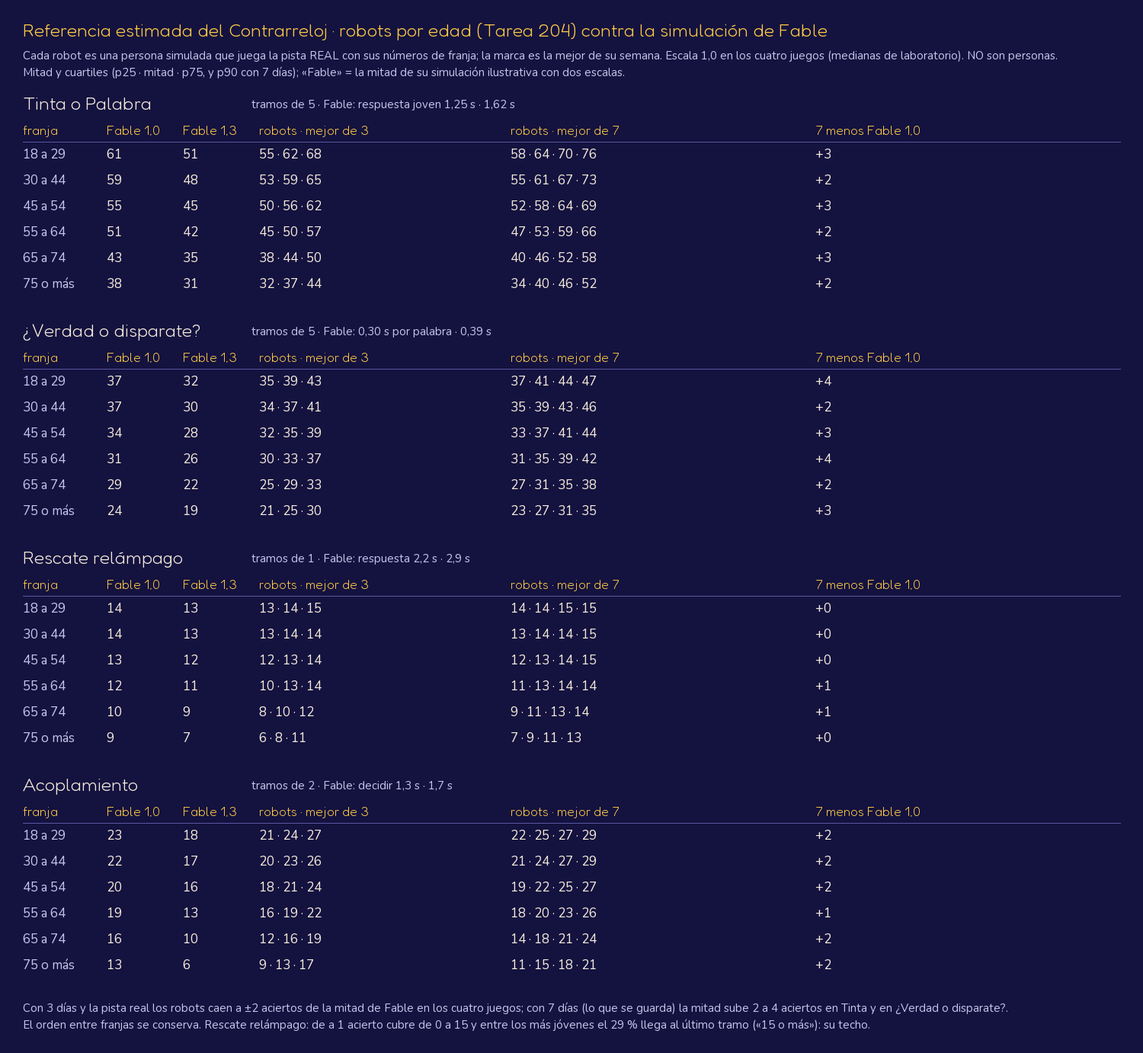
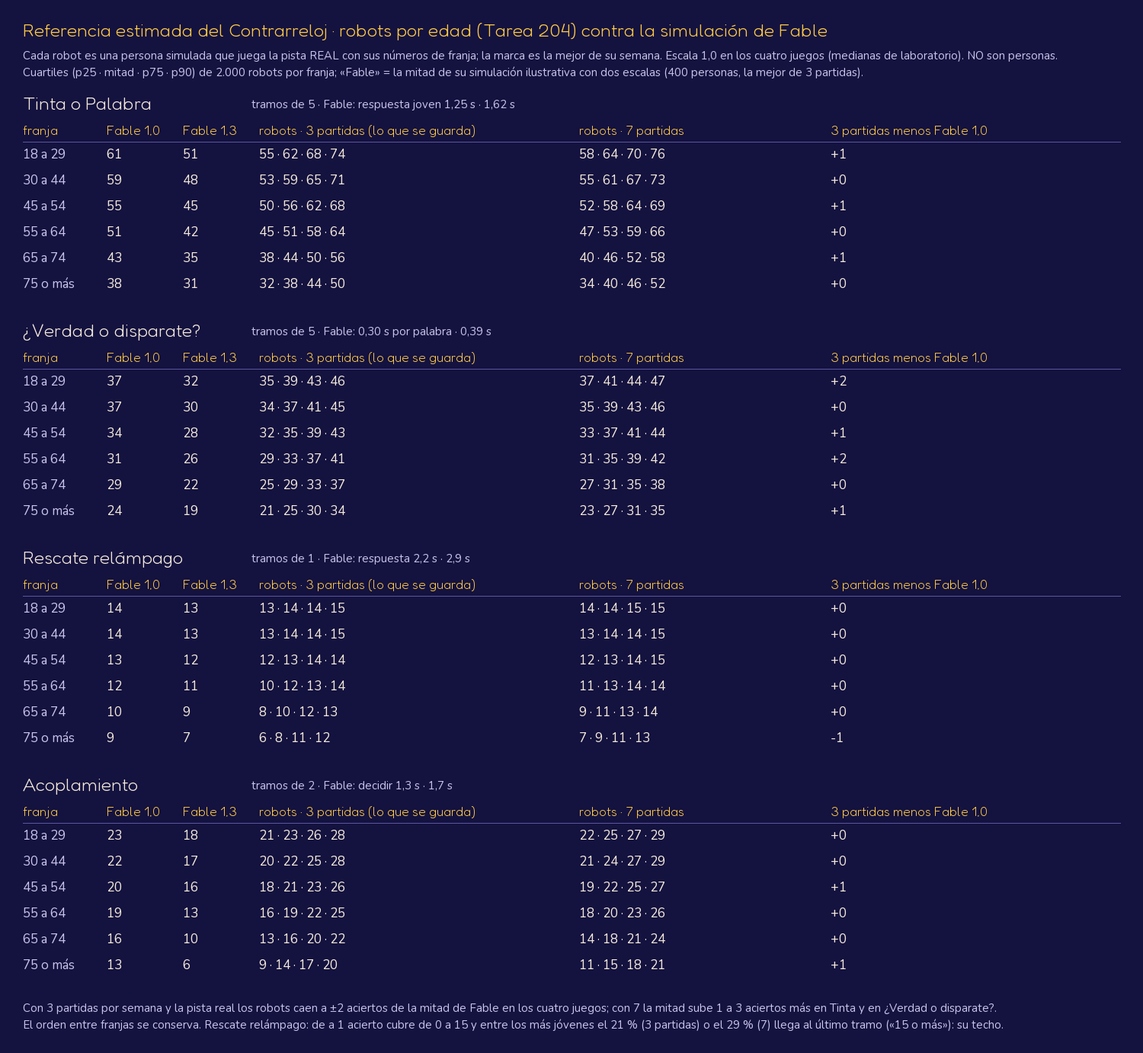
Tarea 204: 3 partidas por semana (dias distintos) y modelo y fuente en el JSON
Opus aprobo el plan con ajustes: la tabla que se guarda usa 3 partidas por semana, como
las personas de Ricardo (3 Contrarrelojes por juego), en 3 dias DISTINTOS de los 7 de la
semana, sorteados por persona con la semilla fija (AgeReference.PickDays); 7 queda como
opcion (NUBI_REF_PARTIDAS=7). El JSON dice partidas_por_semana, dias_de_pista, la version
del modelo y su fuente («auditoria-fable/referencia-estimada.md §2.2»).

Con 3 partidas la mitad queda a +-2 aciertos de la simulacion de Fable en los cuatro
juegos. Pruebas: 15 en AgeReferenceTests (dias distintos y fijos por persona, mas
partidas suben la mejor marca, modelo y fuente en el JSON). Lamina y docs al dia.

diff --git a/unity/NeuroVidaCore/Assets/Scripts/Games/Tests/AgeReference.cs b/unity/NeuroVidaCore/Assets/Scripts/Games/Tests/AgeReference.cs
@@ -213,26 +213,50 @@ namespace NeuroVida.Games.Tests
 
         public const int Bins = 16;
 
-        /// <summary>Con qué se arma la tabla: cuántas personas por franja, cuántos días de pista juega cada una (de ellos sale su mejor marca de la semana), desde qué día (aaaammdd), con qué semilla y con qué escala.</summary>
+        /// <summary>Los días de pista de una semana: cada día tiene su propia pista (otra semilla), así que una persona que juega 3 veces juega 3 pistas distintas.</summary>
+        public const int WeekDays = 7;
+
+        /// <summary>
+        /// Con qué se arma la tabla: cuántas personas por franja, cuántas PARTIDAS juega cada una en la semana (<see cref="Played"/>: de ellas sale su mejor marca; son días DISTINTOS de los <see cref="WeekDays"/>, sorteados por persona con la semilla fija), desde qué día (aaaammdd empieza la semana), con qué semilla y con qué escala.
+        /// Cuántas partidas juega una persona por semana es una perilla que se mezcla con la escala: por defecto 3 (las personas de Ricardo juegan 3 Contrarrelojes por juego); 7 = todos los días.
+        /// </summary>
         public readonly struct Options
         {
-            public readonly int People, Days, FirstDay;
+            public readonly int People, Played, FirstDay;
             public readonly ulong Seed;
             /// <summary>Multiplica la lentitud de todas las personas del juego; 1,0 = las medianas de la §2.3 de Fable. Si es 0 o menos se usa <see cref="ReferenceScales.For"/>.</summary>
             public readonly double Scale;
 
-            public Options(int people, int days, int firstDay, ulong seed, double scale = 0.0)
+            public Options(int people, int played, int firstDay, ulong seed, double scale = 0.0)
             {
                 People = people;
-                Days = days;
+                Played = Math.Max(1, Math.Min(WeekDays, played));
                 FirstDay = firstDay;
                 Seed = seed;
                 Scale = scale;
             }
         }
 
-        /// <summary>Lo de siempre: 2.000 personas por franja, 7 días de pista (la semana del 1 de noviembre de 2026) y la semilla 20261101.</summary>
-        public static Options Default => new Options(2000, 7, 20261101, 20261101UL);
+        /// <summary>Lo de siempre: 2.000 personas por franja, 3 partidas por semana (3 días distintos de la semana del 1 de noviembre de 2026) y la semilla 20261101.</summary>
+        public static Options Default => new Options(2000, 3, 20261101, 20261101UL);
+
+        /// <summary>Los días (índices 0 a <see cref="WeekDays"/> − 1, de menor a mayor) en que juega una persona: <paramref name="played"/> DISTINTOS, sorteados con su semilla (Fisher-Yates parcial con SplitMix64: la misma persona juega siempre los mismos días).</summary>
+        public static int[] PickDays(ulong personSeed, int played)
+        {
+            played = Math.Max(1, Math.Min(WeekDays, played));
+            var idx = new int[WeekDays];
+            for (int i = 0; i < WeekDays; i++) idx[i] = i;
+            var rng = new TimeTrial.TrackRandom(Mix(personSeed ^ 0xA24BAED4963EE407UL));
+            for (int i = 0; i < played; i++)
+            {
+                int j = i + rng.Next(WeekDays - i);
+                int tmp = idx[i]; idx[i] = idx[j]; idx[j] = tmp;
+            }
+            var picked = new int[played];
+            Array.Copy(idx, picked, played);
+            Array.Sort(picked);
+            return picked;
+        }
 
         /// <summary>El resultado para UNA franja de UN juego.</summary>
         public sealed class RangeResult
@@ -248,7 +272,7 @@ namespace NeuroVida.Games.Tests
         public sealed class Table
         {
             public string Game;
-            public int TrackVersion, BinWidth, Days, FirstDay;
+            public int TrackVersion, BinWidth, Played, FirstDay;
             public int PeoplePerRange;
             public ulong Seed;
             public double Scale;
@@ -268,15 +292,15 @@ namespace NeuroVida.Games.Tests
             return keys;
         }
 
-        /// <summary>Arma la tabla de <paramref name="game"/>: por cada franja, <see cref="Options.People"/> personas; cada una juega <see cref="Options.Days"/> días de pista real y se queda con su mejor marca.</summary>
+        /// <summary>Arma la tabla de <paramref name="game"/>: por cada franja, <see cref="Options.People"/> personas; cada una juega <see cref="Options.Played"/> días DISTINTOS de la semana (la pista real de cada día) y se queda con su mejor marca.</summary>
         public static Table Build(string game, SentenceBank bank, Options options)
         {
             double scale = options.Scale > 0 ? options.Scale : ReferenceScales.For(game);
             int width = BinWidth(game);
-            var days = DayKeys(options.FirstDay, options.Days);
+            var week = DayKeys(options.FirstDay, WeekDays);
             var table = new Table
             {
-                Game = game, TrackVersion = TimeTrial.TrackVersion(game), BinWidth = width, Days = options.Days, FirstDay = options.FirstDay,
+                Game = game, TrackVersion = TimeTrial.TrackVersion(game), BinWidth = width, Played = options.Played, FirstDay = options.FirstDay,
                 PeoplePerRange = options.People, Seed = options.Seed, Scale = scale, Ranges = new RangeResult[RangeKeys.Length],
             };
             for (int f = 0; f < RangeKeys.Length; f++)
@@ -287,10 +311,10 @@ namespace NeuroVida.Games.Tests
                     ulong personSeed = Mix(options.Seed ^ Hash(game) ^ ((ulong)(f + 1) << 48) ^ ((ulong)(uint)i * 0xD1B54A32D192ED03UL));
                     var person = Draw(f, scale, new TimeTrial.TrackRandom(personSeed));
                     double top = 0;
-                    for (int d = 0; d < days.Length; d++)
+                    foreach (int d in PickDays(personSeed, options.Played))
                     {
-                        var rng = new TimeTrial.TrackRandom(Mix(personSeed ^ ((ulong)(uint)days[d] * 0x8CB92BA72F3D8DD7UL)));
-                        top = Math.Max(top, Play(game, person, days[d], rng, bank));
+                        var rng = new TimeTrial.TrackRandom(Mix(personSeed ^ ((ulong)(uint)week[d] * 0x8CB92BA72F3D8DD7UL)));
+                        top = Math.Max(top, Play(game, person, week[d], rng, bank));
                     }
                     best[i] = (int)top;
                 }
@@ -316,8 +340,11 @@ namespace NeuroVida.Games.Tests
 
         // ------------------------------------------------------------------ el JSON (lo que lee la app: `app/src/main/assets/referencia/<juego>_v<version>.json`)
 
+        /// <summary>De dónde salen los parámetros del modelo (lo escribe el JSON junto a la versión del modelo).</summary>
+        public const string Source = "auditoria-fable/referencia-estimada.md §2.2";
+
         /// <summary>
-        /// El JSON de una tabla, a mano y con cultura invariante. Lleva el ancho del tramo, la versión de la pista, la cuenta de robots, la escala, las semillas y el modelo; por franja, los 16 tramos, la media y p25/p50/p75/p90. <paramref name="date"/> es solo metadata (cuándo se generó): no entra en
+        /// El JSON de una tabla, a mano y con cultura invariante. Lleva el ancho del tramo, la versión de la pista, la cuenta de robots, las partidas por semana, la escala, las semillas, la versión del modelo y de dónde sale; por franja, los 16 tramos, la media y p25/p50/p75/p90. <paramref name="date"/> es solo metadata (cuándo se generó): no entra en
         /// ninguna comparación. Los robots NO son personas: el archivo se llama «referencia» y dice <c>"estimada": true</c>.
         /// </summary>
         public static string ToJson(Table t, string date)
@@ -327,12 +354,14 @@ namespace NeuroVida.Games.Tests
             sb.Append("{\n");
             sb.Append("  \"estimada\": true,\n");
             sb.Append("  \"modelo\": ").Append(ModelVersion.ToString(inv)).Append(",\n");
+            sb.Append("  \"fuente_modelo\": \"").Append(Source).Append("\",\n");
             sb.Append("  \"juego\": \"").Append(t.Game).Append("\",\n");
             sb.Append("  \"version_pista\": ").Append(t.TrackVersion.ToString(inv)).Append(",\n");
             sb.Append("  \"ancho_tramo\": ").Append(t.BinWidth.ToString(inv)).Append(",\n");
             sb.Append("  \"tramos\": ").Append(Bins.ToString(inv)).Append(",\n");
             sb.Append("  \"robots_por_franja\": ").Append(t.PeoplePerRange.ToString(inv)).Append(",\n");
-            sb.Append("  \"dias_por_semana\": ").Append(t.Days.ToString(inv)).Append(",\n");
+            sb.Append("  \"partidas_por_semana\": ").Append(t.Played.ToString(inv)).Append(",\n");
+            sb.Append("  \"dias_de_pista\": ").Append(WeekDays.ToString(inv)).Append(",\n");
             sb.Append("  \"primer_dia\": ").Append(t.FirstDay.ToString(inv)).Append(",\n");
             sb.Append("  \"semilla\": ").Append(t.Seed.ToString(inv)).Append(",\n");
             sb.Append("  \"escala\": ").Append(t.Scale.ToString("0.####", inv)).Append(",\n");
@@ -359,7 +388,7 @@ namespace NeuroVida.Games.Tests
         {
             var inv = CultureInfo.InvariantCulture;
             var sb = new StringBuilder();
-            sb.Append(t.Game).Append(" v").Append(t.TrackVersion.ToString(inv)).Append(" · tramos de ").Append(t.BinWidth.ToString(inv)).Append(" · escala ").Append(t.Scale.ToString("0.###", inv)).Append(" · ").Append(t.PeoplePerRange.ToString(inv)).Append(" robots por franja × ").Append(t.Days.ToString(inv)).Append(" días\n");
+            sb.Append(t.Game).Append(" v").Append(t.TrackVersion.ToString(inv)).Append(" · tramos de ").Append(t.BinWidth.ToString(inv)).Append(" · escala ").Append(t.Scale.ToString("0.###", inv)).Append(" · ").Append(t.PeoplePerRange.ToString(inv)).Append(" robots por franja × ").Append(t.Played.ToString(inv)).Append(" partidas por semana\n");
             foreach (var r in t.Ranges)
                 sb.Append("  ").Append(r.Label.PadRight(9)).Append(" p25 ").Append(r.P25.ToString(inv).PadLeft(3)).Append(" · mitad ").Append(r.P50.ToString(inv).PadLeft(3)).Append(" · p75 ").Append(r.P75.ToString(inv).PadLeft(3)).Append(" · p90 ").Append(r.P90.ToString(inv).PadLeft(3)).Append(" · media ").Append(r.Mean.ToString("0.0", inv)).Append("\n");
             return sb.ToString();

diff --git a/unity/NeuroVidaCore/Assets/Scripts/Games/Tests/AgeReferenceTests.cs b/unity/NeuroVidaCore/Assets/Scripts/Games/Tests/AgeReferenceTests.cs
@@ -21,7 +21,7 @@ namespace NeuroVida.Games.Tests
         private static SentenceBank _bank;
         private static SentenceBank Bank => _bank ?? (_bank = SentenceBank.Load());
 
-        private static readonly AgeReference.Options Small = new AgeReference.Options(250, 7, 20261101, 20261101UL);
+        private static readonly AgeReference.Options Small = new AgeReference.Options(250, 3, 20261101, 20261101UL);
 
         private static readonly Dictionary<string, AgeReference.Table> Tables = new Dictionary<string, AgeReference.Table>();
 
@@ -55,13 +55,13 @@ namespace NeuroVida.Games.Tests
         [Test]
         public void TheSameSeedGivesTheSameTable()
         {
-            var o = new AgeReference.Options(40, 7, 20261101, 7UL);
+            var o = new AgeReference.Options(40, 3, 20261101, 7UL);
             foreach (var g in TimeTrial.GameIds)
             {
                 string a = AgeReference.ToJson(AgeReference.Build(g, Bank, o), "2026-11-01");
                 string b = AgeReference.ToJson(AgeReference.Build(g, Bank, o), "2026-11-01");
                 Assert.AreEqual(a, b, g + ": la misma semilla debe dar la misma tabla");
-                string c = AgeReference.ToJson(AgeReference.Build(g, Bank, new AgeReference.Options(40, 7, 20261101, 8UL)), "2026-11-01");
+                string c = AgeReference.ToJson(AgeReference.Build(g, Bank, new AgeReference.Options(40, 3, 20261101, 8UL)), "2026-11-01");
                 Assert.AreNotEqual(a, c, g + ": otra semilla debe dar otra tabla (si no, la semilla no hace nada)");
             }
         }
@@ -69,9 +69,9 @@ namespace NeuroVida.Games.Tests
         [Test]
         public void TheScaleMovesTheTableAndIsWrittenInTheJson()
         {
-            var o = new AgeReference.Options(120, 7, 20261101, 3UL);
+            var o = new AgeReference.Options(120, 3, 20261101, 3UL);
             var normal = AgeReference.Build("stroop", Bank, o);
-            var slow = AgeReference.Build("stroop", Bank, new AgeReference.Options(120, 7, 20261101, 3UL, 1.3));
+            var slow = AgeReference.Build("stroop", Bank, new AgeReference.Options(120, 3, 20261101, 3UL, 1.3));
             Assert.Less(slow.Ranges[2].Mean, normal.Ranges[2].Mean - 3, "con la respuesta 30 % más lenta la media de 45 a 54 cae varios aciertos (Fable: de 55 a 45 la mitad)");
             Assert.AreEqual(1.0, normal.Scale, "la escala por defecto es la de ReferenceScales");
             StringAssert.Contains("\"escala\": 1.3", AgeReference.ToJson(slow, "2026-11-01"));
@@ -93,6 +93,10 @@ namespace NeuroVida.Games.Tests
                 StringAssert.Contains("\"ancho_tramo\": " + AgeReference.BinWidth(g), json);
                 StringAssert.Contains("\"semilla\": 20261101", json);
                 StringAssert.Contains("\"robots_por_franja\": " + Small.People, json);
+                StringAssert.Contains("\"partidas_por_semana\": 3", json);
+                StringAssert.Contains("\"dias_de_pista\": 7", json);
+                StringAssert.Contains("\"modelo\": " + AgeReference.ModelVersion, json);
+                StringAssert.Contains("\"fuente_modelo\": \"auditoria-fable/referencia-estimada.md §2.2\"", json);
                 Assert.AreEqual(g + "_v" + TimeTrial.TrackVersion(g) + ".json", AgeReference.FileName(t));
                 Assert.AreEqual(6, t.Ranges.Length, "seis franjas, de 18 a 29 a 75 o más (sin 13 a 17)");
                 foreach (var r in t.Ranges)
@@ -169,6 +173,36 @@ namespace NeuroVida.Games.Tests
         }
 
         [Test]
+        public void ThreePlayedDaysAreDistinctSortedAndFixedPerPerson()
+        {
+            var seen = new HashSet<string>();
+            for (ulong s = 1; s <= 200; s++)
+            {
+                var days = AgeReference.PickDays(s, 3);
+                Assert.AreEqual(3, days.Length);
+                for (int i = 0; i < days.Length; i++)
+                {
+                    Assert.That(days[i], Is.InRange(0, AgeReference.WeekDays - 1));
+                    if (i > 0) Assert.Greater(days[i], days[i - 1], "tres días DISTINTOS y de menor a mayor");
+                }
+                CollectionAssert.AreEqual(days, AgeReference.PickDays(s, 3), "la misma persona juega siempre los mismos días");
+                seen.Add(string.Join(",", days));
+            }
+            Assert.Greater(seen.Count, 20, "personas distintas juegan días distintos (hay 35 combinaciones posibles)");
+            CollectionAssert.AreEqual(new[] { 0, 1, 2, 3, 4, 5, 6 }, AgeReference.PickDays(5UL, 7), "con 7 partidas se juegan todos los días");
+            Assert.AreEqual(1, AgeReference.PickDays(5UL, 0).Length, "como mínimo una partida");
+        }
+
+        [Test]
+        public void MorePlayedGamesRaiseTheBestMark()
+        {
+            var three = AgeReference.Build("stroop", Bank, new AgeReference.Options(150, 3, 20261101, 11UL));
+            var seven = AgeReference.Build("stroop", Bank, new AgeReference.Options(150, 7, 20261101, 11UL));
+            for (int f = 0; f < three.Ranges.Length; f++)
+                Assert.Greater(seven.Ranges[f].Mean, three.Ranges[f].Mean, "la mejor de 7 partidas supera a la mejor de 3 (" + three.Ranges[f].Label + ")");
+        }
+
+        [Test]
         public void TheDayKeysCrossTheMonth()
         {
             CollectionAssert.AreEqual(new[] { 20261101, 20261102, 20261103 }, AgeReference.DayKeys(20261101, 3));
@@ -194,7 +228,7 @@ namespace NeuroVida.Games.Tests
 
     /// <summary>
     /// GENERA las tablas de la referencia estimada (Tarea 204): <c>bash tools/verificar-todo.sh --referencia</c> abre Unity en batch y llama a <see cref="Run"/>, que arma los cuatro JSON en <c>app/src/main/assets/referencia/</c> y un informe en <c>unity/test-results/referencia-estimada.txt</c>.
-    /// Se vuelve a correr cuando cambia una pista (versión), la escala (<see cref="ReferenceScales"/>) o el modelo (<see cref="AgeReference.ModelVersion"/>). Variables: <c>NUBI_REF_PEOPLE</c> (robots por franja, 2000), <c>NUBI_REF_DAYS</c> (días de pista por persona, 7),
+    /// Se vuelve a correr cuando cambia una pista (versión), la escala (<see cref="ReferenceScales"/>) o el modelo (<see cref="AgeReference.ModelVersion"/>). Variables: <c>NUBI_REF_PEOPLE</c> (robots por franja, 2000), <c>NUBI_REF_PARTIDAS</c> (partidas por persona en la semana, 3: días DISTINTOS de los 7),
     /// <c>NUBI_REF_SEED</c> (semilla, 20261101), <c>NUBI_REF_OUT</c> (carpeta de salida) y <c>NUBI_REF_SCALE</c> (una escala para los cuatro juegos, para probar; sin ella manda <see cref="ReferenceScales"/>).
     /// </summary>
     public static class ReferenceTableRunner
@@ -205,7 +239,7 @@ namespace NeuroVida.Games.Tests
             {
                 var inv = CultureInfo.InvariantCulture;
                 int people = EnvInt("NUBI_REF_PEOPLE", 2000);
-                int days = EnvInt("NUBI_REF_DAYS", 7);
+                int played = EnvInt("NUBI_REF_PARTIDAS", 3);
                 ulong seed = (ulong)EnvInt("NUBI_REF_SEED", 20261101);
                 double scale = double.TryParse(Environment.GetEnvironmentVariable("NUBI_REF_SCALE"), NumberStyles.Float, inv, out var s) ? s : 0.0;
                 string repo = Path.GetFullPath(Path.Combine(Application.dataPath, "..", "..", ".."));
@@ -213,11 +247,11 @@ namespace NeuroVida.Games.Tests
                 if (string.IsNullOrEmpty(outDir)) outDir = Path.Combine(repo, "app", "src", "main", "assets", "referencia");
                 Directory.CreateDirectory(outDir);
                 var bank = SentenceBank.Load();
-                var options = new AgeReference.Options(people, days, 20261101, seed, scale);
+                var options = new AgeReference.Options(people, played, 20261101, seed, scale);
                 string date = DateTime.Now.ToString("yyyy-MM-dd", inv);
                 var report = new StringBuilder();
                 report.AppendLine("Referencia estimada del Contrarreloj (Tarea 204): robots por edad sobre la pista real. Modelo " + AgeReference.ModelVersion + ", generada el " + date + ".");
-                report.AppendLine(people + " robots por franja × " + days + " días de pista (de cada uno, su mejor marca de la semana), semilla " + seed + ". NO son personas.");
+                report.AppendLine(people + " robots por franja × " + options.Played + " partidas por semana en días distintos de los " + AgeReference.WeekDays + " de la semana (de cada uno, su mejor marca), semilla " + seed + ". NO son personas.");
                 report.AppendLine();
                 var clock = System.Diagnostics.Stopwatch.StartNew();
                 foreach (var g in TimeTrial.GameIds)

diff --git a/tools/previews/tarea_204.py b/tools/previews/tarea_204.py
@@ -1,7 +1,8 @@
 # -*- coding: utf-8 -*-
 """Tabla de la Tarea 204 (1-nov-2026): la referencia estimada del Contrarreloj, producida por los robots por edad de Unity (`AgeReference`), contra la simulación ilustrativa de Fable (`auditoria-fable/referencia-estimada.md` §2.4, hecha en Python con una pista generada por paso).
-Por juego y franja: la MITAD que dio Fable con sus dos escalas (la del laboratorio, 1,0, y la de un teléfono 30 % más lento, 1,3), y la de los robots reales con la escala 1,0 jugando 3 días de pista (comparable con Fable, que tomó la mejor de 3 partidas) y 7 días (lo que se guarda en la app: cada robot, su mejor marca de una semana).
-Datos: `app/src/main/assets/referencia/*.json` (7 días, el que lee la app) y `unity/test-results/referencia-3dias/*.json` (3 días; se genera con  NUBI_REF_DAYS=3 NUBI_REF_OUT=unity/test-results/referencia-3dias bash tools/verificar-todo.sh --referencia  y no va a git).
+Por juego y franja: la MITAD que dio Fable con sus dos escalas (la del laboratorio, 1,0, y la de un teléfono 30 % más lento, 1,3; la mejor de 3 partidas), y la de los robots reales con la escala 1,0: con 3 partidas por semana en días distintos (lo que se guarda en la app: las personas de Ricardo
+juegan 3 Contrarrelojes por juego) y con 7 (todos los días de la semana). Cada robot juega la pista REAL del día; de cada uno se toma su mejor marca de la semana.
+Datos: `app/src/main/assets/referencia/*.json` (3 partidas, el que lee la app) y `unity/test-results/referencia-7dias/*.json` (7 partidas; se genera con  NUBI_REF_PARTIDAS=7 NUBI_REF_OUT=unity/test-results/referencia-7dias bash tools/verificar-todo.sh --referencia  y no va a git).
 Uso:  python -I tools/previews/tarea_204.py      → docs/previews/tarea-204.png
 """
 import json, os, sys
@@ -9,11 +10,11 @@ from PIL import Image, ImageDraw, ImageFont
 
 sys.stdout.reconfigure(encoding='utf-8')
 HERE = os.path.dirname(os.path.abspath(__file__)); ROOT = os.path.abspath(os.path.join(HERE, '..', '..'))
-SEVEN = os.path.join(ROOT, 'app', 'src', 'main', 'assets', 'referencia')
-THREE = os.path.join(ROOT, 'unity', 'test-results', 'referencia-3dias')
+THREE = os.path.join(ROOT, 'app', 'src', 'main', 'assets', 'referencia')
+SEVEN = os.path.join(ROOT, 'unity', 'test-results', 'referencia-7dias')
 OUT = os.path.join(ROOT, 'docs', 'previews', 'tarea-204.png')
 FONTS = os.path.join(ROOT, 'app', 'src', 'main', 'res', 'font')
-NAVY, SUN, DIM, CREAM, LINE, LIME, CORAL = (20, 18, 63), (255, 203, 69), (200, 196, 235), (245, 235, 219), (90, 86, 160), (155, 229, 100), (255, 120, 100)
+NAVY, SUN, DIM, CREAM, LINE = (20, 18, 63), (255, 203, 69), (200, 196, 235), (245, 235, 219), (90, 86, 160)
 
 KEYS = ['R18_29', 'R30_44', 'R45_54', 'R55_64', 'R65_74', 'R75_PLUS']
 LABELS = ['18 a 29', '30 a 44', '45 a 54', '55 a 64', '65 a 74', '75 o más']
@@ -37,22 +38,19 @@ def load(folder, game):
 def main():
     W = 1500
     ft, fh, fb, fs = font(24), font(17), font(17, False), font(15, False)
-    cols = [('franja', 110), ('Fable 1,0', 100), ('Fable 1,3', 100), ('robots · mejor de 3', 330), ('robots · mejor de 7', 400), ('7 menos Fable 1,0', 160)]
-    rows_h, block_gap = 34, 36
-    blocks = []
-    for game in FABLE:
-        t7, t3 = load(SEVEN, game), load(THREE, game)
-        blocks.append((game, t7, t3))
-    H = 120 + sum(70 + 34 + 6 * rows_h + 60 for _ in blocks) + 80
+    cols = [('franja', 110), ('Fable 1,0', 100), ('Fable 1,3', 100), ('robots · 3 partidas (lo que se guarda)', 420), ('robots · 7 partidas', 330), ('3 partidas menos Fable 1,0', 240)]
+    rows_h = 34
+    blocks = [(game, load(THREE, game), load(SEVEN, game)) for game in FABLE]
+    H = 120 + len(blocks) * (70 + 34 + 6 * rows_h + 60) + 100
     im = Image.new('RGB', (W, H), NAVY)
     d = ImageDraw.Draw(im)
     d.text((30, 24), 'Referencia estimada del Contrarreloj · robots por edad (Tarea 204) contra la simulación de Fable', font=ft, fill=SUN)
     d.text((30, 62), 'Cada robot es una persona simulada que juega la pista REAL con sus números de franja; la marca es la mejor de su semana. Escala 1,0 en los cuatro juegos (medianas de laboratorio). NO son personas.', font=fs, fill=DIM)
-    d.text((30, 84), 'Mitad y cuartiles (p25 · mitad · p75, y p90 con 7 días); «Fable» = la mitad de su simulación ilustrativa con dos escalas.', font=fs, fill=DIM)
+    d.text((30, 84), 'Cuartiles (p25 · mitad · p75 · p90) de 2.000 robots por franja; «Fable» = la mitad de su simulación ilustrativa con dos escalas (400 personas, la mejor de 3 partidas).', font=fs, fill=DIM)
     y = 120
-    for game, t7, t3 in blocks:
+    for game, t3, t7 in blocks:
         name, scales, f10, f13 = FABLE[game]
-        width = (t7 or {}).get('ancho_tramo', '?')
+        width = (t3 or {}).get('ancho_tramo', '?')
         d.text((30, y), name, font=ft, fill=CREAM)
         d.text((330, y + 6), f'tramos de {width} · Fable: {scales}', font=fs, fill=DIM)
         y += 40
@@ -63,20 +61,20 @@ def main():
         d.line((30, y - 4, W - 30, y - 4), fill=LINE)
         for i, key in enumerate(KEYS):
             x = 30
-            r7 = t7['franjas'][key] if t7 else None
             r3 = t3['franjas'][key] if t3 else None
+            r7 = t7['franjas'][key] if t7 else None
             cells = [
                 LABELS[i], str(f10[i]), str(f13[i]),
-                f"{r3['p25']} · {r3['p50']} · {r3['p75']}" if r3 else '—',
+                f"{r3['p25']} · {r3['p50']} · {r3['p75']} · {r3['p90']}" if r3 else '—',
                 f"{r7['p25']} · {r7['p50']} · {r7['p75']} · {r7['p90']}" if r7 else '—',
-                (f"{r7['p50'] - f10[i]:+d}" if r7 else '—'),
+                (f"{r3['p50'] - f10[i]:+d}" if r3 else '—'),
             ]
             for (title, w), cell in zip(cols, cells):
                 d.text((x, y), cell, font=fb, fill=CREAM if title != 'franja' else DIM); x += w
             y += rows_h
         y += 24
-    d.text((30, y), 'Con 3 días y la pista real los robots caen a ±2 aciertos de la mitad de Fable en los cuatro juegos; con 7 días (lo que se guarda) la mitad sube 2 a 4 aciertos en Tinta y en ¿Verdad o disparate?.', font=fs, fill=DIM)
-    d.text((30, y + 22), 'El orden entre franjas se conserva. Rescate relámpago: de a 1 acierto cubre de 0 a 15 y entre los más jóvenes el 29 % llega al último tramo («15 o más»): su techo.', font=fs, fill=DIM)
+    d.text((30, y), 'Con 3 partidas por semana y la pista real los robots caen a ±2 aciertos de la mitad de Fable en los cuatro juegos; con 7 la mitad sube 1 a 3 aciertos más en Tinta y en ¿Verdad o disparate?.', font=fs, fill=DIM)
+    d.text((30, y + 22), 'El orden entre franjas se conserva. Rescate relámpago: de a 1 acierto cubre de 0 a 15 y entre los más jóvenes el 21 % (3 partidas) o el 29 % (7) llega al último tramo («15 o más»): su techo.', font=fs, fill=DIM)
     im.crop((0, 0, W, y + 70)).save(OUT)
     print(OUT)
 

diff --git a/docs/contrarreloj.md b/docs/contrarreloj.md
@@ -299,16 +299,23 @@ Todo el azar sale de SplitMix64 (`TimeTrial.TrackRandom`), no de `System.Random`
 **La escala** (`ReferenceScales`, UN número por juego, hoy **1,0** en los cuatro) multiplica la lentitud de todas las personas del juego: 1,0 = las medianas de laboratorio de arriba; 1,3 = un teléfono 30 % más lento. Los estudios fijan la DISTANCIA entre franjas; cuánto tarda en tocar una persona joven en ESTE teléfono no lo fija nadie y mueve la mitad de Tinta unos 10 aciertos (Fable §2.4). Es lo único que se calibra
 (antes de lanzar, con la mejor marca de Ricardo y de sus 5 personas; con servidor, con las primeras 50 reales) y el valor usado queda escrito en el JSON.
 
-**La tabla:** por (juego, franja) `AgeReference.Build` hace jugar a N robots (2.000 por franja) D días de pista (7: los días del 1 al 7 de noviembre de 2026, cada uno con su pista real) y guarda la MEJOR marca de cada uno (lo que la página compara). Tramos por juego (decisión de Ricardo): **de a 1 acierto en Rescate relámpago, de a 2 en Acoplamiento y de a 5 en Tinta o Palabra y ¿Verdad o disparate?**, 16 tramos (el último junta lo que pase: 0 a 15, 0 a 31, 0 a 79, 0 a 79).
-Salida: `app/src/main/assets/referencia/<juego>_v<versión>.json` (4 archivos de ~1,3 KB: `stroop_v2.json`, `disparate_v2.json`, `radar_v2.json`, `acoplamiento_v2.json`) con `"estimada": true`, el modelo, el ancho del tramo, la versión de la pista, los robots por franja, los días, el primer día, la semilla, la escala, la fecha y, por franja (`R18_29` … `R75_PLUS`, como el `AgeRange` de Kotlin), los 16 tramos, la media y p25/p50/p75/p90.
-**Regenerar** (cuando cambia una pista, la escala o el modelo): `bash tools/verificar-todo.sh --referencia` (Unity en batch, ~90 s; variables `NUBI_REF_PEOPLE`, `NUBI_REF_DAYS`, `NUBI_REF_SEED`, `NUBI_REF_SCALE`, `NUBI_REF_OUT`); el informe queda en `unity/test-results/referencia-estimada.txt`. Al subir la versión de una pista el archivo nuevo se llama `<juego>_v3.json` y el viejo se queda para quien aún tenga la app anterior.
+**La tabla:** por (juego, franja) `AgeReference.Build` hace jugar a N robots (2.000 por franja) **P partidas por semana** y guarda la MEJOR marca de cada uno (lo que la página compara). La semana tiene 7 días de pista (del 1 al 7 de noviembre de 2026, cada día con su propia pista real) y cada robot juega **P días DISTINTOS**, sorteados por persona con la semilla fija (`AgeReference.PickDays`: la misma persona juega siempre los mismos días).
+**Por defecto P = 3** (decisión de Opus: las personas de Ricardo juegan 3 Contrarrelojes por juego, así la tabla calza con el ajuste); `NUBI_REF_PARTIDAS=7` da la de todos los días. Cuántas partidas juega una persona por semana es una SEGUNDA perilla que se mezcla con la escala y nadie la sabe todavía; el JSON dice `partidas_por_semana` y `dias_de_pista`.
+Tramos por juego (decisión de Ricardo): **de a 1 acierto en Rescate relámpago, de a 2 en Acoplamiento y de a 5 en Tinta o Palabra y ¿Verdad o disparate?**, 16 tramos (el último junta lo que pase: 0 a 15, 0 a 31, 0 a 79, 0 a 79).
+Salida: `app/src/main/assets/referencia/<juego>_v<versión>.json` (4 archivos de ~1,4 KB: `stroop_v2.json`, `disparate_v2.json`, `radar_v2.json`, `acoplamiento_v2.json`) con `"estimada": true`, la versión del modelo (`modelo`) y de dónde sale (`fuente_modelo`: «auditoria-fable/referencia-estimada.md §2.2»), el ancho del tramo, la versión de la pista, los robots por franja, las partidas por semana, los días de pista, el primer día, la semilla, la escala, la fecha y, por franja
+(`R18_29` … `R75_PLUS`, como el `AgeRange` de Kotlin), los 16 tramos, la media y p25/p50/p75/p90.
+**Regenerar** (cuando cambia una pista, la escala o el modelo): `bash tools/verificar-todo.sh --referencia` (Unity en batch, ~50 s con 3 partidas y ~90 s con 7; variables `NUBI_REF_PEOPLE`, `NUBI_REF_PARTIDAS`, `NUBI_REF_SEED`, `NUBI_REF_SCALE`, `NUBI_REF_OUT`); el informe queda en `unity/test-results/referencia-estimada.txt`. Al subir la versión de una pista el archivo nuevo se llama `<juego>_v3.json` y el viejo se queda para quien aún tenga la app anterior.
 
-**Pruebas** (`AgeReferenceTests`, EditMode, con 250 robots por franja: segundos): el ORDEN entre franjas (la media no sube con la edad, con la tolerancia del muestreo; de 18 a 29 a 75 o más baja al menos un tramo; la mitad y el cuartil alto de 75 o más no pasan a los de 18 a 29), una semilla fija = la misma tabla (y otra semilla, otra), la escala mueve la tabla y se escribe en el JSON, el JSON bien armado (tramos que suman los robots, anchos 1 · 2 · 5 · 5, cuartiles en orden),
-una persona más rápida y exacta hace más marca que una lenta en los cuatro juegos (juega la pista real), el juego es determinista por (persona, día, semilla) y la tabla de parámetros de la §2.2 queda fijada.
+**Pruebas** (`AgeReferenceTests`, EditMode, con 250 robots por franja: segundos): el ORDEN entre franjas (la media no sube con la edad, con la tolerancia del muestreo; de 18 a 29 a 75 o más baja al menos un tramo; la mitad y el cuartil alto de 75 o más no pasan a los de 18 a 29), una semilla fija = la misma tabla (y otra semilla, otra), la escala mueve la tabla y queda en el JSON, el JSON bien armado (tramos que suman los robots, anchos 1 · 2 · 5 · 5, cuartiles en orden, partidas, modelo y fuente),
+las 3 partidas son 3 días distintos de la semana y siempre los mismos para la misma persona, jugar 7 partidas sube la mejor marca respecto de 3, una persona más rápida y exacta hace más marca que una lenta en los cuatro juegos (juega la pista real), el juego es determinista por (persona, día, semilla) y la tabla de parámetros de la §2.2 queda fijada.
 
-**Lo que salió** (lámina `docs/previews/tarea-204.png`, `tools/previews/tarea_204.py`; escala 1,0): con **3 días** de pista real los robots caen a ±2 aciertos de la mitad que dio Fable con su simulación en Python —Tinta 62 · 59 · 56 · 50 · 44 · 37 contra 61 · 59 · 55 · 51 · 43 · 38; ¿Verdad o disparate? 39 · 37 · 35 · 33 · 29 · 25 contra 37 · 37 · 34 · 31 · 29 · 24; Rescate 14 · 14 · 13 · 13 · 10 · 8 contra 14 · 14 · 13 · 12 · 10 · 9; Acoplamiento 24 · 23 · 21 · 19 · 16 · 13 contra 23 · 22 · 20 · 19 · 16 · 13—: el método de Fable se reproduce con los generadores reales.
-La tabla que SE GUARDA usa **7 días** (cada robot, su mejor marca de una semana de pistas distintas) y queda 2 a 4 aciertos más arriba en Tinta y en ¿Verdad o disparate? (mitades de Tinta 64 · 61 · 58 · 53 · 46 · 40; ¿Verdad o disparate? 41 · 39 · 37 · 35 · 31 · 27; Rescate 14 · 14 · 13 · 13 · 11 · 9; Acoplamiento 25 · 24 · 22 · 20 · 18 · 15): cuántas partidas juega una persona por semana es una SEGUNDA perilla que se mezcla con la escala, y nadie la sabe todavía (`Options.Days`; el JSON la dice).
-El orden entre franjas, que es lo que los estudios fijan, se conserva en los cuatro juegos con ambos supuestos (de 18 a 29 a 75 o más: unos 24 aciertos en Tinta, 14 en ¿Verdad o disparate?, 5 en Rescate y 10 en Acoplamiento con 7 días).
-**Techo de Rescate relámpago:** de a 1 acierto y 16 tramos cubre de 0 a 15 y, entre los de 18 a 29, el 29 % de los robots cae en el último tramo («15 o más»; p75 y p90 = 15): una ronda dura unos 8 s y en 2 minutos caben ~15, así que el cuartil alto y el p90 no se distinguen. Pasará igual con personas reales; la salida es más tramos para ese juego (o rondas más cortas), no tocar el modelo.
+**Lo que salió** (lámina `docs/previews/tarea-204.png`, `tools/previews/tarea_204.py`; escala 1,0; mitad por franja de 18 a 29 a 75 o más):
+- **Tinta o Palabra:** 3 partidas **62 · 59 · 56 · 51 · 44 · 38** (p25 55 … 32, p75 68 … 44), 7 partidas 64 · 61 · 58 · 53 · 46 · 40; Fable (mejor de 3): 61 · 59 · 55 · 51 · 43 · 38.
+- **¿Verdad o disparate?:** 3 partidas **39 · 37 · 35 · 33 · 29 · 25**, 7 partidas 41 · 39 · 37 · 35 · 31 · 27; Fable: 37 · 37 · 34 · 31 · 29 · 24.
+- **Rescate relámpago:** 3 partidas **14 · 14 · 13 · 12 · 10 · 8**, 7 partidas 14 · 14 · 13 · 13 · 11 · 9; Fable: 14 · 14 · 13 · 12 · 10 · 9.
+- **Acoplamiento:** 3 partidas **23 · 22 · 21 · 19 · 16 · 14**, 7 partidas 25 · 24 · 22 · 20 · 18 · 15; Fable: 23 · 22 · 20 · 19 · 16 · 13.
+Con 3 partidas los robots, que juegan la pista REAL, caen a ±2 aciertos de la simulación en Python de Fable (que usaba una pista generada por paso): el método se reproduce. Con 7 la mitad sube 1 a 3 aciertos más en Tinta y en ¿Verdad o disparate? y casi nada en Rescate. El orden entre franjas, que es lo que los estudios fijan, se conserva con ambos supuestos
+(de 18 a 29 a 75 o más, con 3 partidas: 24 aciertos en Tinta, 14 en ¿Verdad o disparate?, 6 en Rescate y 9 en Acoplamiento).
+**Techo de Rescate relámpago:** de a 1 acierto y 16 tramos cubre de 0 a 15 y, entre los de 18 a 29, el 21 % de los robots (el 29 % con 7 partidas) cae en el último tramo («15 o más»; p75 y p90 = 14 a 15): una ronda dura unos 8 s y en 2 minutos caben ~15, así que el cuartil alto y el p90 casi no se distinguen. Pasará igual con personas reales; la salida es más tramos para ese juego (o rondas más cortas), no tocar el modelo.
 
 **Lo que NO hace esta tarea:** la app todavía no lee los JSON (Tarea 205: `EstimatedReference`, la fuente compuesta, tramos por juego en `Comparison`, los textos de la §4 de Fable, «[Debug] Contrarreloj de invitado»); no hay nada visible, así que no se instala; el servidor, las cuentas y el cambio a personas reales siguen en la fase 2.
